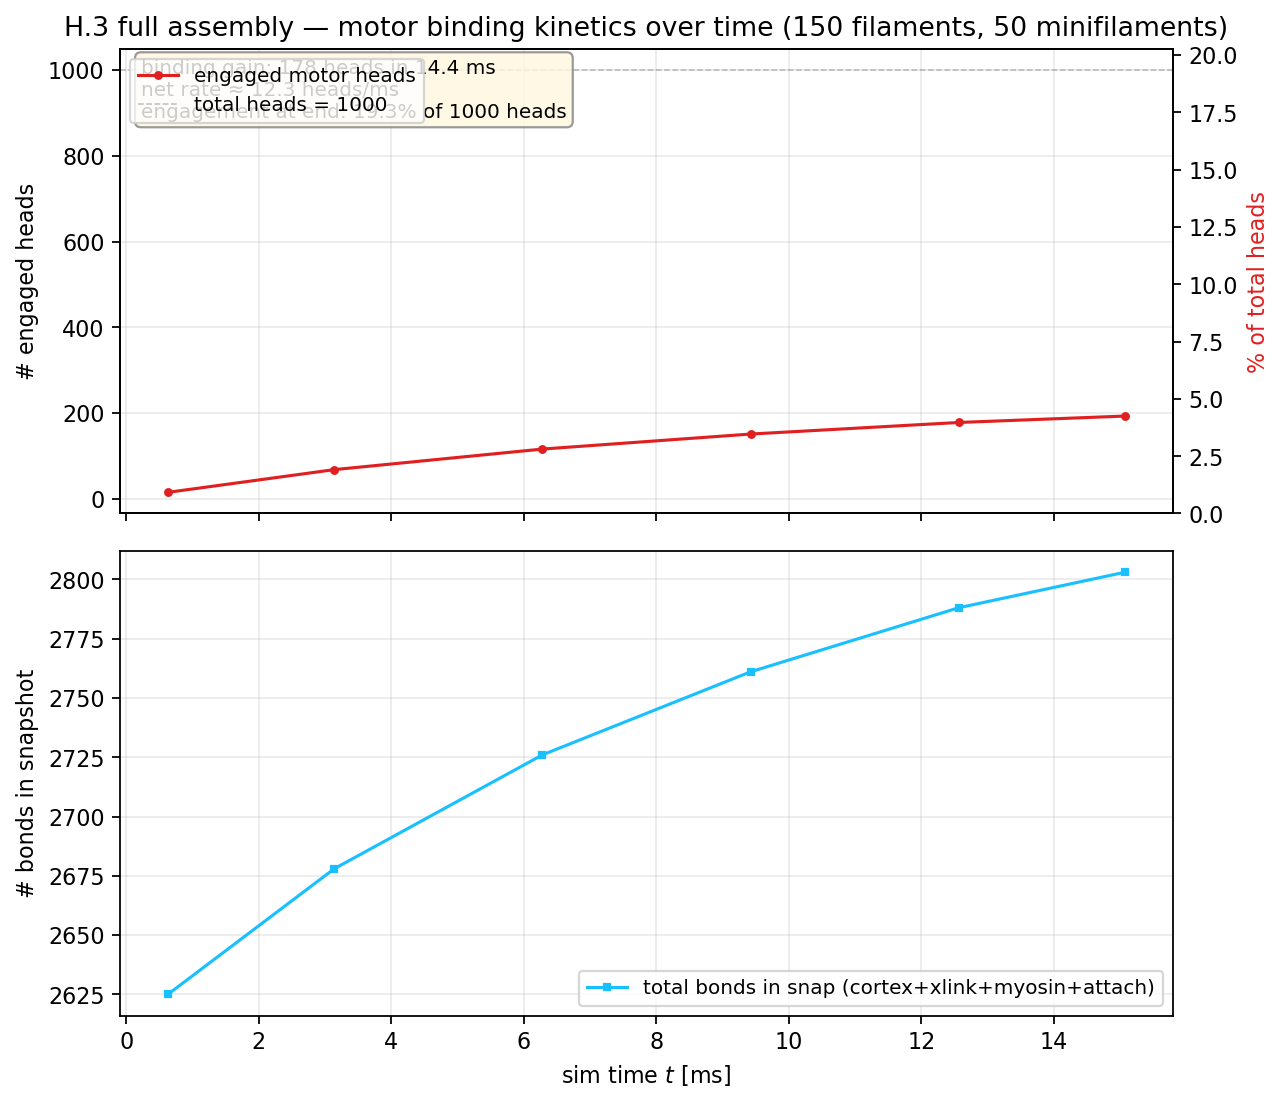
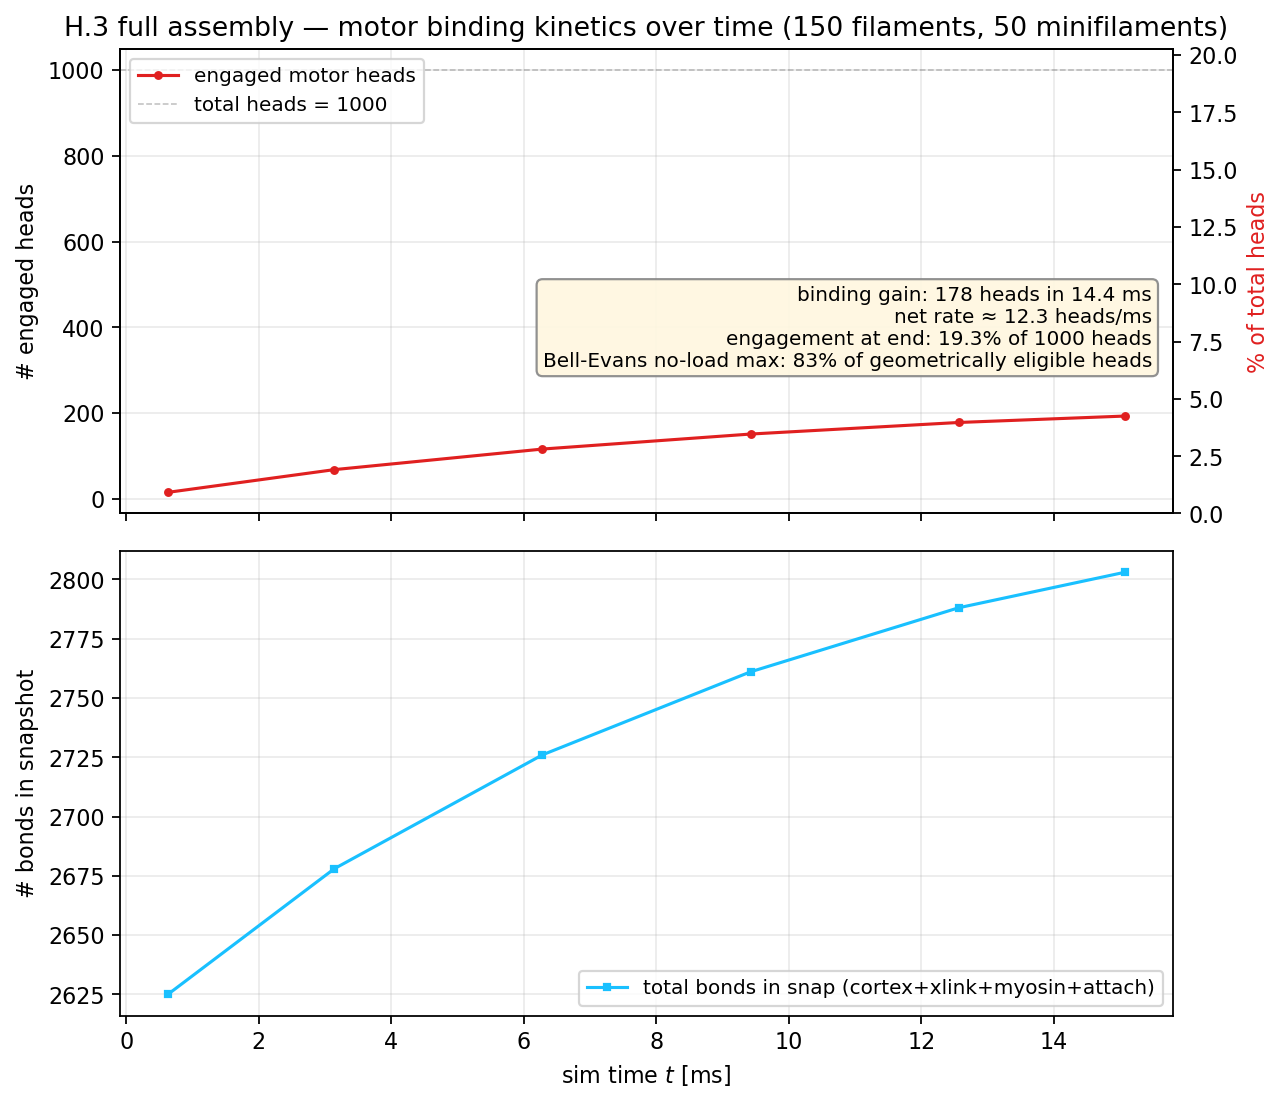
H.3 viz polish: engagement trace + Bell-Evans no-load reference + montage refresh
- Move binding-rate annotation off the legend (was overlapping top-left).
- Add Bell-Evans no-load ceiling: k_on/(k_on+k_off0) = 50/(50+10) = 83%
  of *geometrically eligible* heads. Observed 19% of total heads (motor
  heads near actin within capture-perp distance) is consistent with
  this ceiling × the geometric availability fraction.
- Refresh fig_h3_evidence_montage.png with updated trace panel.

Changed region(s): [[0.4047, 0.2464, 0.9027, 0.3696], [0.0934, 0.0308, 0.4669, 0.1232]]

diff --git a/ffn_sim/scripts/h3_engagement_trace.py b/ffn_sim/scripts/h3_engagement_trace.py
@@ -84,17 +84,24 @@ def render(rows: list[dict], out_path: Path, *, n_fil: int, n_motors: int,
     ax1.set_ylabel("# bonds in snapshot")
     ax1.grid(alpha=0.25); ax1.legend(fontsize=9, loc="lower right")
 
-    # Annotate inferred binding rate.
+    # Annotate inferred binding rate (mid-right to avoid legend overlap).
     if len(t_ms) > 1:
         dt_ms = t_ms[-1] - t_ms[0]
         d_eng = eng[-1] - eng[0]
         rate = d_eng / dt_ms if dt_ms > 0 else float("nan")
-        ax0.text(0.02, 0.98,
+        # Bell-Evans theoretical equilibrium fraction (no load): k_on /
+        # (k_on + k_off0) = 50 / 60 = 83%. Geometric availability is
+        # much smaller (only motor heads within head_actin_capture_perp
+        # of an actin segment can bind) — this is the simulation's
+        # actual equilibrium, not 83%.
+        bell_eq_pct = 50.0 / (50.0 + 10.0) * 100
+        ax0.text(0.98, 0.40,
                  f"binding gain: {d_eng} heads in {dt_ms:.1f} ms\n"
                  f"net rate ≈ {rate:.1f} heads/ms\n"
-                 f"engagement at end: {100*eng[-1]/n_heads:.1f}% of {n_heads} heads",
-                 transform=ax0.transAxes, va="top", ha="left", fontsize=9,
-                 bbox=dict(boxstyle="round", fc="#fff7e0", ec="#888", alpha=0.85))
+                 f"engagement at end: {100*eng[-1]/n_heads:.1f}% of {n_heads} heads\n"
+                 f"Bell-Evans no-load max: {bell_eq_pct:.0f}% of geometrically eligible heads",
+                 transform=ax0.transAxes, va="center", ha="right", fontsize=9,
+                 bbox=dict(boxstyle="round", fc="#fff7e0", ec="#888", alpha=0.92))
     fig.tight_layout()
     fig.savefig(out_path, dpi=160, bbox_inches="tight")
     plt.close(fig)
